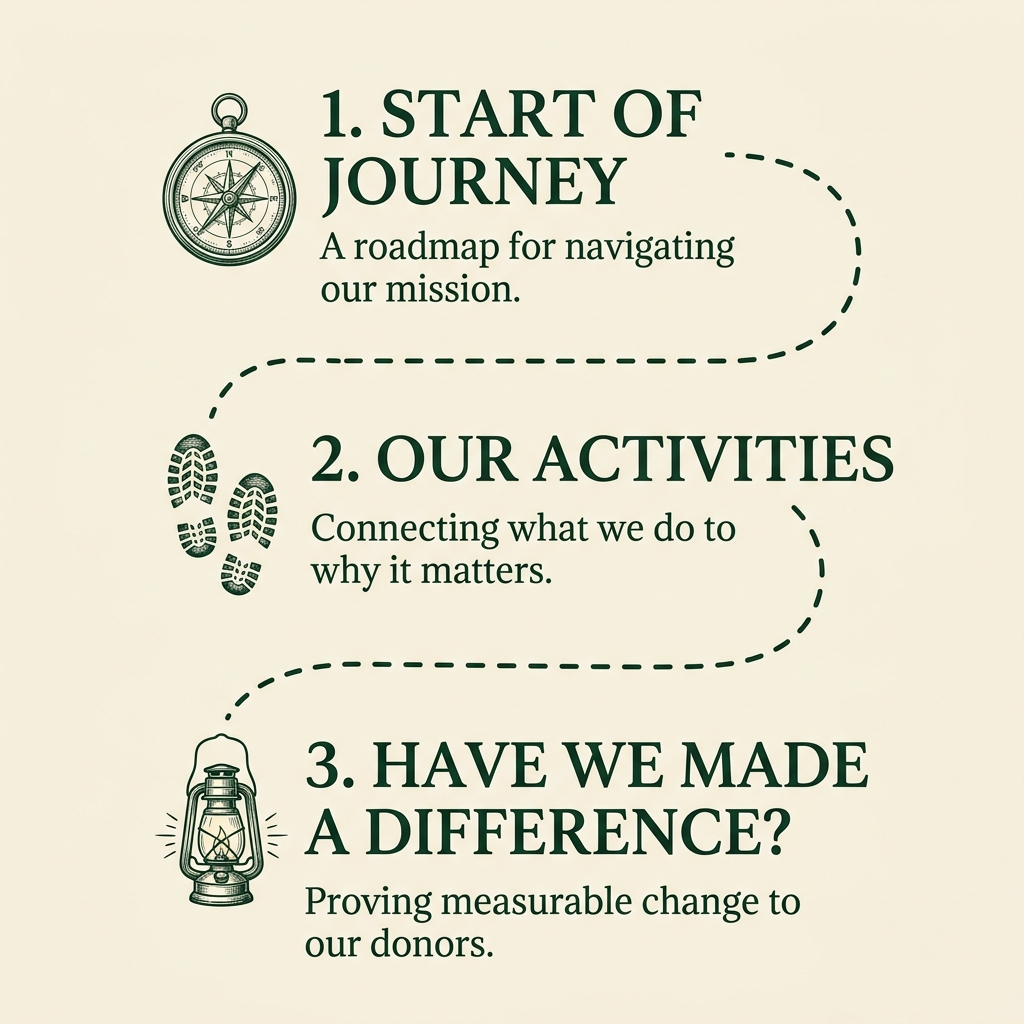
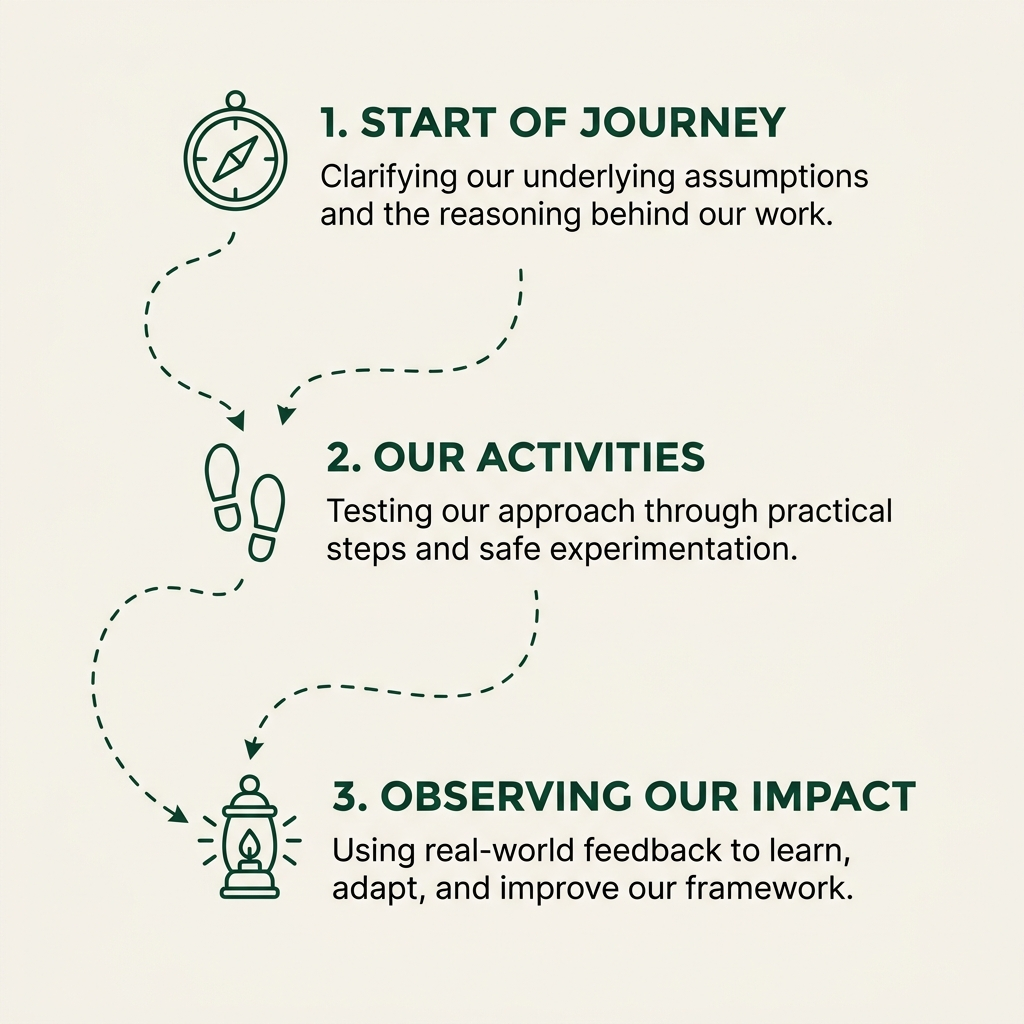
Update infographic with formal Singapore English phrasing

diff --git a/walk-the-toc.html b/walk-the-toc.html
@@ -253,11 +253,11 @@
                  <div style="max-width: 480px; margin: 0 auto; border: 2px dashed #EAE5D8; padding: 20px; border-radius: 12px; background: #FFFBF7;">
                      <div style="font-size: 15px; color: #1B2B28; margin-bottom: 24px; line-height: 1.5;">
                          <ul style="list-style-type: none; padding-left: 0; margin: 0; color: #1B2B28; font-weight: normal;">
-                             <li style="display: flex; gap: 8px; margin-bottom: 4px;"><span style="color: #DC3545; font-weight: bold;">-</span> <span>This tool helps you to develop your Theory of Change (TOC).</span></li>
-                             <li style="display: flex; gap: 8px; margin-bottom: 4px;"><span style="color: #DC3545; font-weight: bold;">-</span> <span>The TOC is a charity's roadmap for navigating its journey.</span></li>
-                             <li style="display: flex; gap: 8px; margin-bottom: 4px;"><span style="color: #DC3545; font-weight: bold;">-</span> <span>From "What we do" (Activities) to "Why it matters" (Impact).</span></li>
-                             <li style="display: flex; gap: 8px; margin-bottom: 4px;"><span style="color: #DC3545; font-weight: bold;">-</span> <span>Your TOC shows donors how you are driving real, measurable change.</span></li>
-                             <li style="display: flex; gap: 8px;"><span style="color: #DC3545; font-weight: bold;">-</span> <span>You don't just talk - you <strong>walk the talk!</strong></span></li>
+                             <li style="display: flex; gap: 8px; margin-bottom: 4px;"><span style="color: #DC3545; font-weight: bold;">-</span> <span>This tool helps you treat your Theory of Change (TOC) as a working model, rather than a fixed plan.</span></li>
+                             <li style="display: flex; gap: 8px; margin-bottom: 4px;"><span style="color: #DC3545; font-weight: bold;">-</span> <span>A TOC is not a guarantee of success, but a shared framework for organisational learning.</span></li>
+                             <li style="display: flex; gap: 8px; margin-bottom: 4px;"><span style="color: #DC3545; font-weight: bold;">-</span> <span>It helps to clearly map out your assumptions and clarify why you believe your programme works.</span></li>
+                             <li style="display: flex; gap: 8px; margin-bottom: 4px;"><span style="color: #DC3545; font-weight: bold;">-</span> <span>Use it to test your ideas in the real world, learn from safe experiments, and identify unintended outcomes early.</span></li>
+                             <li style="display: flex; gap: 8px;"><span style="color: #DC3545; font-weight: bold;">-</span> <span>Remember that impact is a milestone for review, not just a final reporting metric.</span></li>
                          </ul>
                      </div>
 
@@ -289,11 +289,11 @@
                     <div style="max-width: 480px; margin: 0 auto;">
                          <div style="font-size: 15px; color: #1B2B28; margin-bottom: 24px; line-height: 1.5;">
                              <ul style="list-style-type: none; padding-left: 0; margin: 0; color: #1B2B28; font-weight: normal;">
-                                 <li style="display: flex; gap: 8px; margin-bottom: 4px;"><span style="color: #DC3545; font-weight: bold;">-</span> <span>This tool helps you to develop your Theory of Change (TOC).</span></li>
-                                 <li style="display: flex; gap: 8px; margin-bottom: 4px;"><span style="color: #DC3545; font-weight: bold;">-</span> <span>The TOC is a charity's roadmap for navigating its journey.</span></li>
-                                 <li style="display: flex; gap: 8px; margin-bottom: 4px;"><span style="color: #DC3545; font-weight: bold;">-</span> <span>From "What we do" (Activities) to "Why it matters" (Impact).</span></li>
-                                 <li style="display: flex; gap: 8px; margin-bottom: 4px;"><span style="color: #DC3545; font-weight: bold;">-</span> <span>Your TOC shows donors how you are driving real, measurable change.</span></li>
-                                 <li style="display: flex; gap: 8px;"><span style="color: #DC3545; font-weight: bold;">-</span> <span>You don't just talk - you <strong>walk the talk!</strong></span></li>
+                                 <li style="display: flex; gap: 8px; margin-bottom: 4px;"><span style="color: #DC3545; font-weight: bold;">-</span> <span>This tool helps you treat your Theory of Change (TOC) as a working model, rather than a fixed plan.</span></li>
+                                 <li style="display: flex; gap: 8px; margin-bottom: 4px;"><span style="color: #DC3545; font-weight: bold;">-</span> <span>A TOC is not a guarantee of success, but a shared framework for organisational learning.</span></li>
+                                 <li style="display: flex; gap: 8px; margin-bottom: 4px;"><span style="color: #DC3545; font-weight: bold;">-</span> <span>It helps to clearly map out your assumptions and clarify why you believe your programme works.</span></li>
+                                 <li style="display: flex; gap: 8px; margin-bottom: 4px;"><span style="color: #DC3545; font-weight: bold;">-</span> <span>Use it to test your ideas in the real world, learn from safe experiments, and identify unintended outcomes early.</span></li>
+                                 <li style="display: flex; gap: 8px;"><span style="color: #DC3545; font-weight: bold;">-</span> <span>Remember that impact is a milestone for review, not just a final reporting metric.</span></li>
                              </ul>
                          </div>
 
